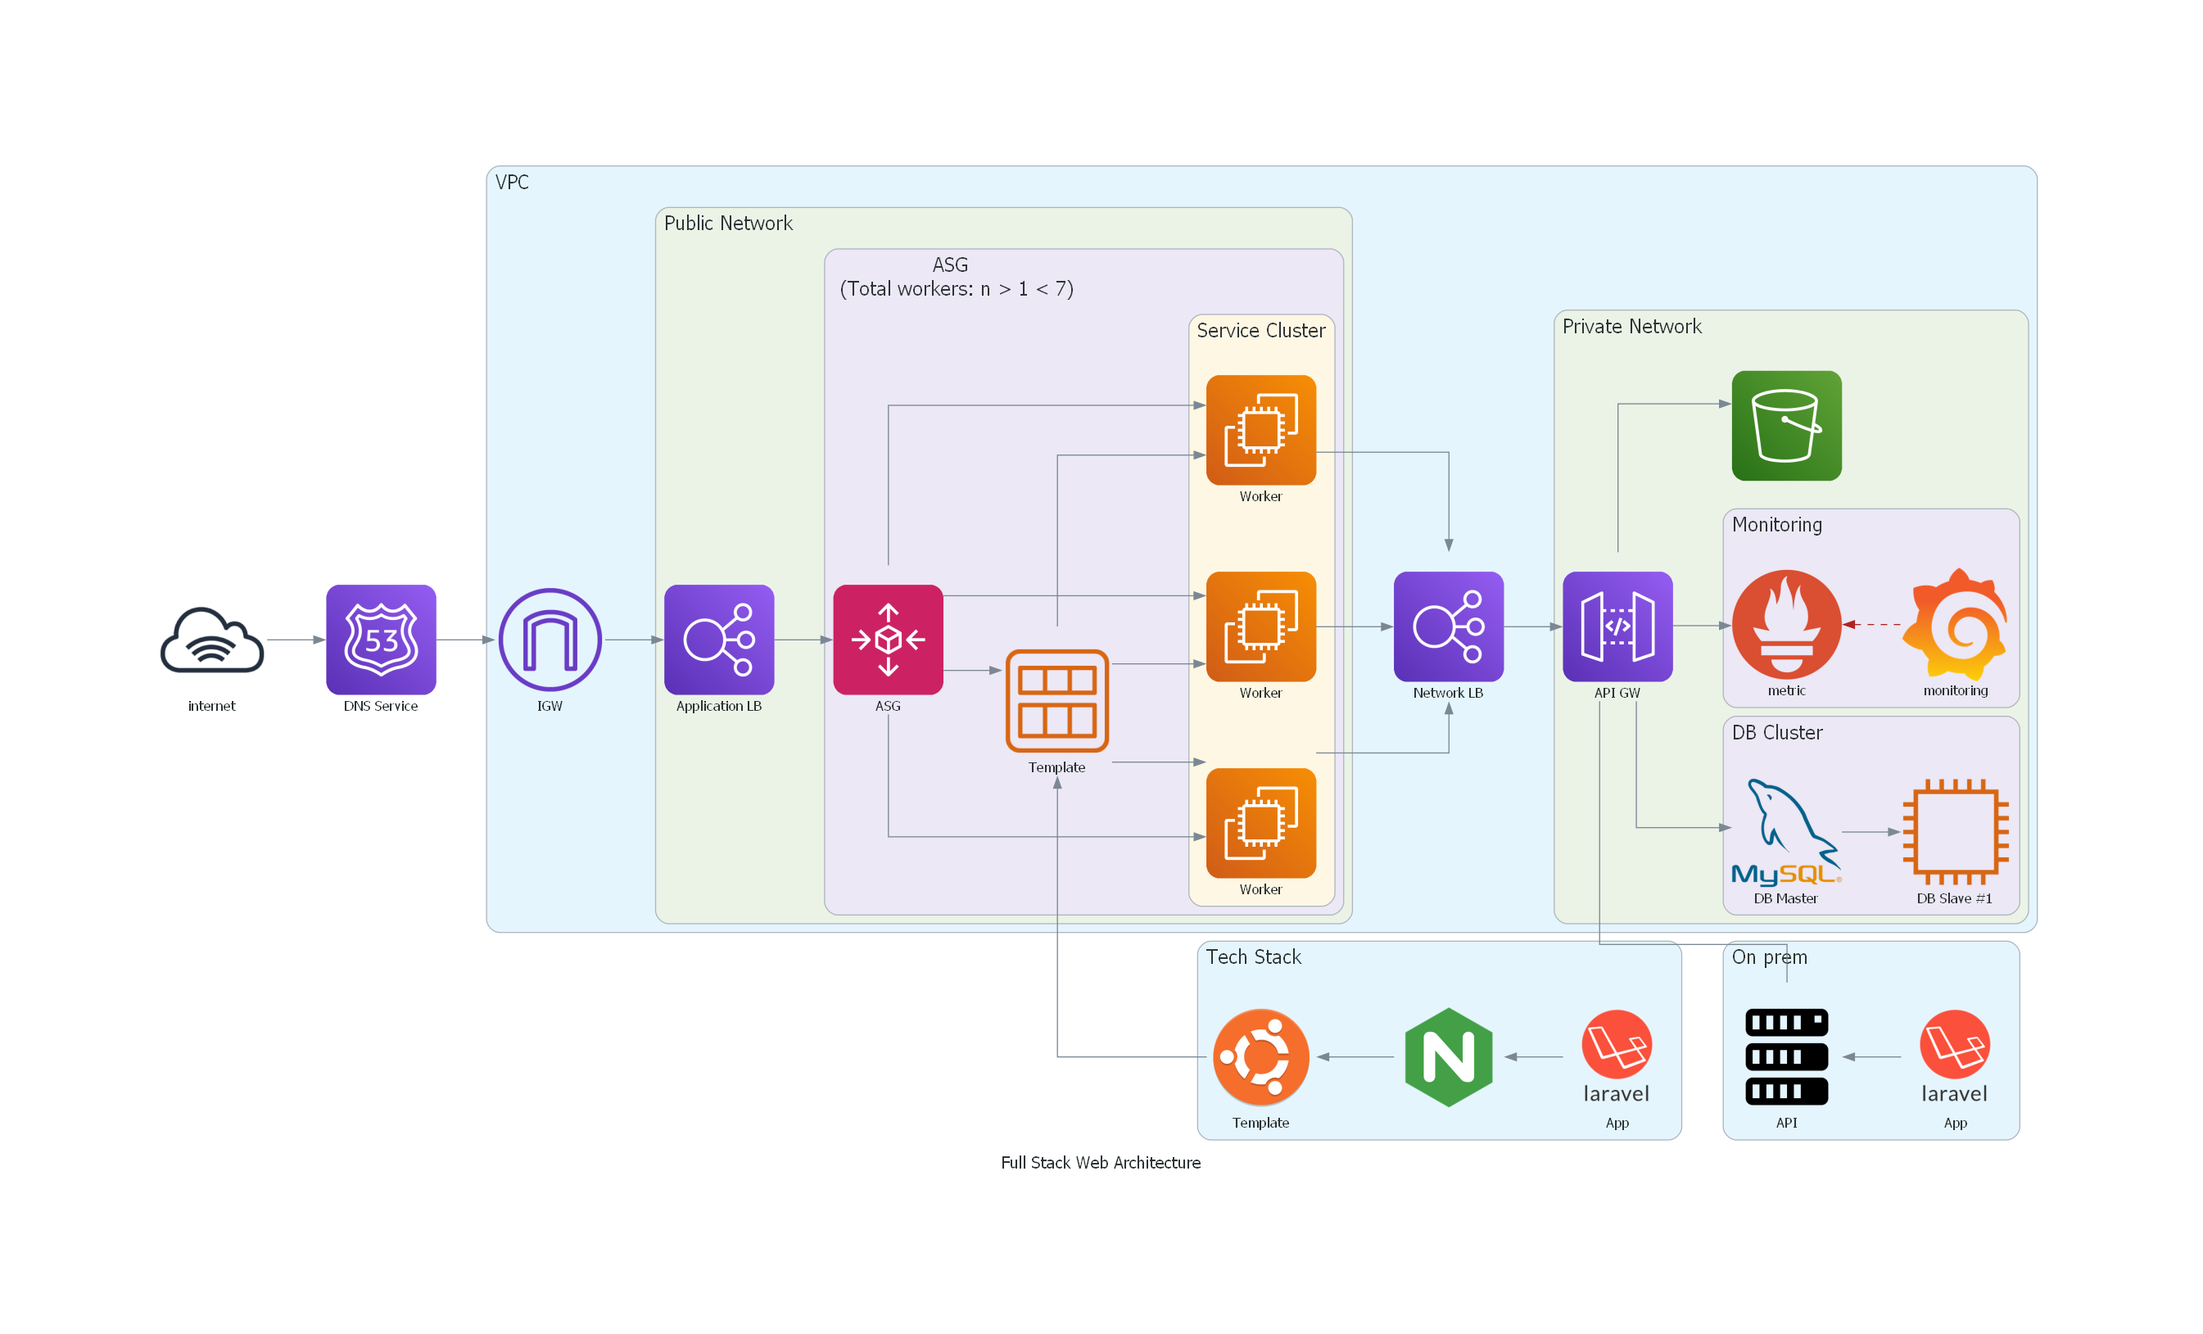
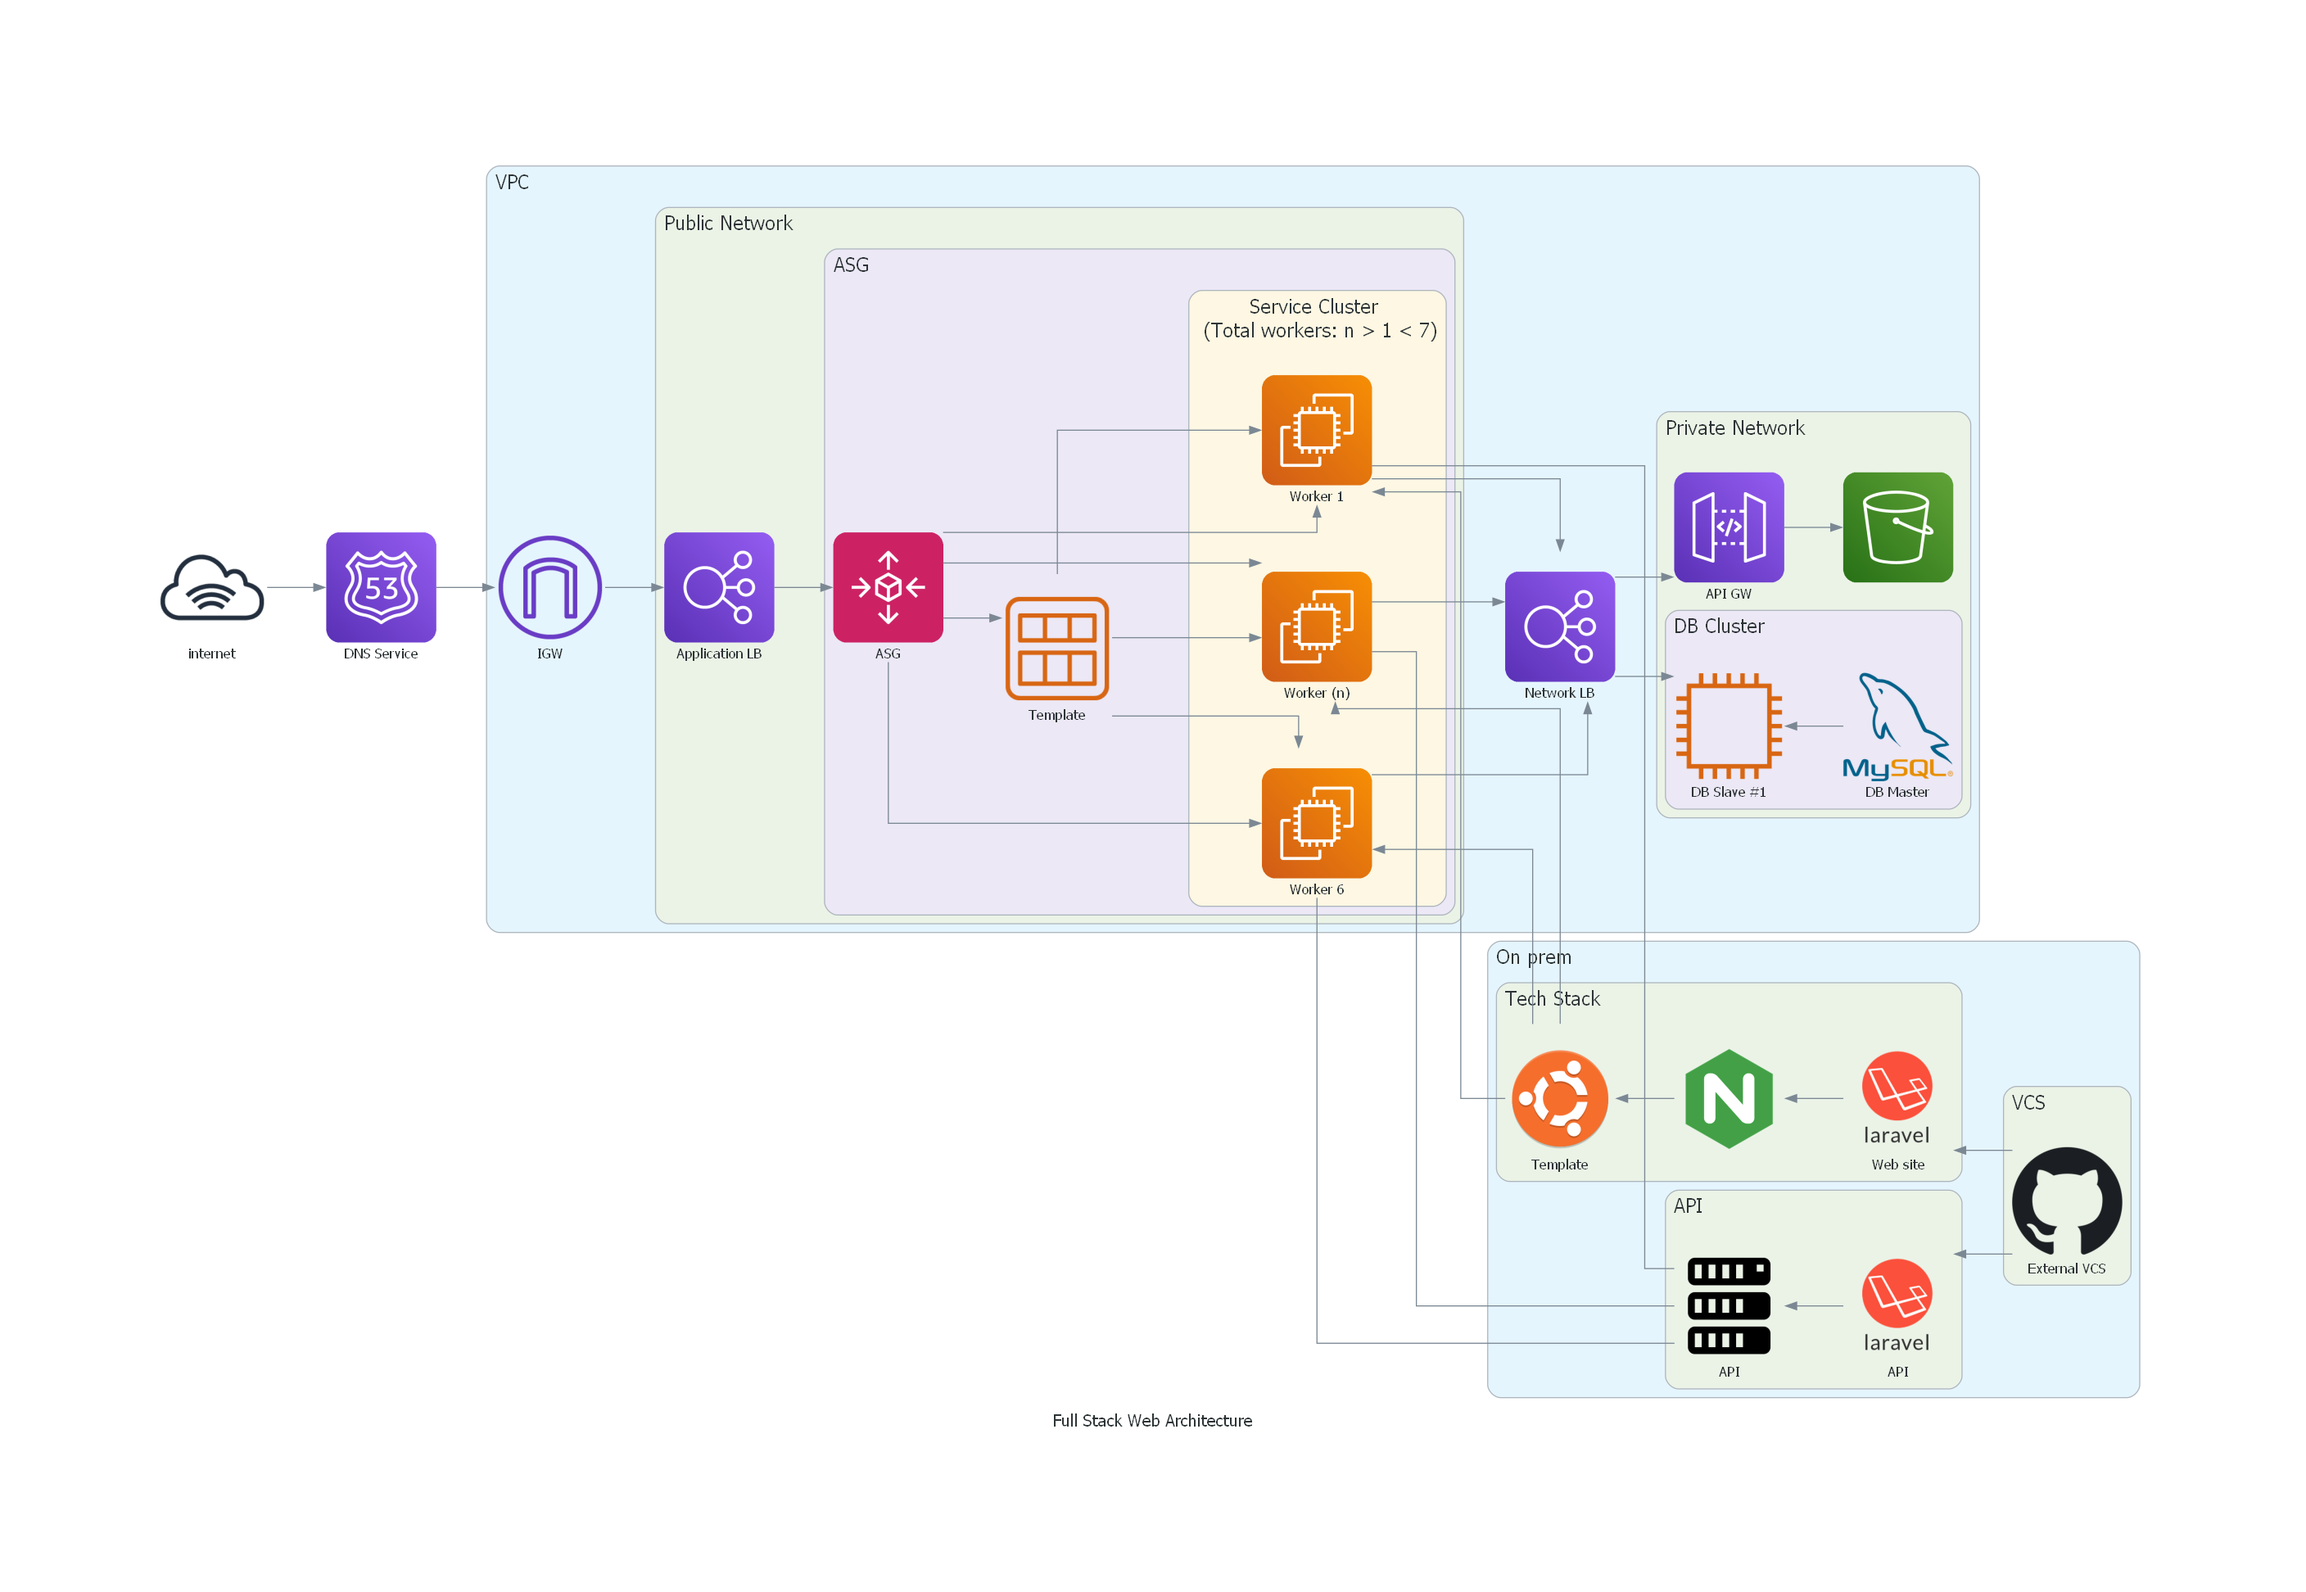
Checklist update. Diagram update

Changed region(s): [[0.0625, 0.0921, 0.9368, 0.8901], [0.4684, 0.8594, 0.5309, 0.9208], [0.4059, 0.1842, 0.4372, 0.2149]]

diff --git a/DAC/Architecture Diagram.py b/DAC/Architecture Diagram.py
@@ -9,7 +9,7 @@ from diagrams.onprem.monitoring import Grafana, Prometheus
 from diagrams.onprem.network import Apache, Nginx
 from diagrams.onprem.database import MySQL
 from diagrams.onprem.compute import Server
-from diagrams.onprem.vcs import Github
+from diagrams.onprem.vcs import Gitlab, Github
 
 from diagrams.programming.framework import Laravel
 
@@ -31,13 +31,13 @@ with Diagram("Full Stack Web Architecture", show=False):
         igw = InternetGateway('IGW')
         with Cluster("Public Network"):
             aLB = ELB('Application LB')
-            with Cluster("ASG \n (Total workers: n > 1 < 7)"):
+            with Cluster("ASG"):
                 AMI = AMI('Template')
-                with Cluster("Service Cluster"):
+                with Cluster("Service Cluster \n (Total workers: n > 1 < 7)"):
                     ec2 = [
-                        EC2('Worker'),
-                        EC2('Worker'),
-                        EC2('Worker'),
+                        EC2('Worker 6'),
+                        EC2('Worker (n)'),
+                        EC2('Worker 1'),
                         
                     ]
                 ASG = AutoScaling('ASG')
@@ -47,27 +47,36 @@ with Diagram("Full Stack Web Architecture", show=False):
             apiGW = APIGateway('API GW')
             with Cluster("DB Cluster"):
                 CDB = [
-                    EC2Instance('DB Slave #1'),
+                    MySQL('DB Master')
+                    
                     # EC2Instance('DB Slave #1'),
                 ]
-                mDB = MySQL('DB Master')
-                mDB >> CDB
-            with Cluster("Monitoring"):
-                metrics = Prometheus("metric")
-                metrics << Edge(color="firebrick", style="dashed") << Grafana("monitoring")
+                mDB = EC2Instance('DB Slave #1')
+                mDB << CDB
+            # with Cluster("Monitoring"):
+            #     metrics = Prometheus("metric")
+            #     metrics << Edge(color="firebrick", style="dashed") << Grafana("monitoring")
             
         # ubu  << Apache('') << Nginx('') << Laravel('App') << git
     
     
-    with Cluster('Tech Stack'):
-        ubu = Ubuntu('Template')
-        # git = Github('Repo')
-        ubu  << Nginx('') << Laravel('App') \
-            #  << git
-        
     with Cluster('On prem'):
-        OnPremServ = Server('API')
-        lrvl = Laravel('App')
+        with Cluster('API'):
+            OnPremServ = Server('API')
+            lrvl = Laravel('API')
+        with Cluster('Tech Stack'):
+            ubu = Ubuntu('Template')
+            # git = Github('Repo')
+            site = Laravel('Web site') 
+            ubu  << Nginx('') << site
+                
+        with Cluster('VCS'):
+            Repo = [
+                # Gitlab('Internal VCS'),
+                Github('External VCS'),
+            ]
+
+        
         
 
                
@@ -77,19 +86,46 @@ with Diagram("Full Stack Web Architecture", show=False):
     aLB >> ASG  >> AMI
     ASG >> ec2
     AMI >> ec2
-    AMI << ubu
+    ec2 << ubu
     ec2 >> nLB
     # nLB >> mDB
     nLB >> apiGW
+    nLB >> mDB
     apiGW >> s3
-    apiGW >> mDB
-    apiGW >> metrics
-    apiGW - OnPremServ << lrvl
+    # apiGW >> mDB
+    # apiGW >> metrics
+    ec2 - OnPremServ << lrvl 
+    lrvl << Repo
+    site << Repo
     
 
 with Diagram("WebApp Architecture", show=False):
 
     lrvl = Laravel('App')
+    with Cluster('DevCycle'):
+        site = [
+            Server('Prod'),
+            Server('Test'),
+            Server('Dev'),
+        ]
+    with Cluster('MVC Architecture'):
+        arch = Server('')
+    with Cluster('Workflow'):
+        with Cluster('Auth'):
+            reg = Server('Register')
+            login = Server('Login') 
+            workflow = login - reg
+        with Cluster('User'):
+            acc = Server('Account') 
+            rsm = Server('rsm') 
+            hist = Server('history') 
+    with Cluster('Controller'):
+        with Cluster('Database'):
+            db = MySQL('DB')
+        with Cluster('Storage'):
+            storage = MySQL('DB')
+
+
     # lb = ELB('LB')
     # source = EKS("k8s source")
 
@@ -98,4 +134,10 @@ with Diagram("WebApp Architecture", show=False):
     #         workers = worker(1)
 
 
-    lrvl 
+    lrvl >> site >> arch
+    arch >> login
+    arch << db
+    arch << storage
+    login >> rsm
+    rsm - acc
+    rsm - hist

diff --git a/Checklist.md b/Checklist.md
@@ -1,55 +1,63 @@
 ## Bugs/Fixes
 ## MVP
 #### Initial Repos
-
-- [x] Webb App Repo
-- [x] Full Stack Repo
-- [ ] Automation Repo
-#### Initial Architecture
+<i class='fas fa-check-circle' style='color: green'></i> Webb App Repo
+<i class='fas fa-check-circle' style='color: green'></i> Full Stack Repo
+<i class='fas fa-pencil-alt' style='color: gray'></i> Automation Repo
 ## Components
 #### Web App
-- [ ] Add admin section
-- [ ] Add user section
-- [ ] Determine type of web app
-- [ ] Create API
+<i class='fas fa-pencil-alt' style='color: gray'></i> Add admin section
+<i class='fas fa-pencil-alt' style='color: gray'></i> Add user section
+<i class='fas fa-pencil-alt' style='color: gray'></i> Determine type of web app
+<i class='fas fa-pencil-alt' style='color: gray'></i> Create API
 #### Mobile (?)
 #### Database
-- [ ] Deploy RDBMS instance
+<i class='fas fa-pencil-alt' style='color: gray'></i> Deploy RDBMS instance
 #### Automation
 #### AutoScale
 #### Vault
-- [ ] Upload .env files
-- [ ] Configure secrets and vault
+<i class='fas fa-pencil-alt' style='color: gray'></i> Upload .env files
+<i class='fas fa-pencil-alt' style='color: gray'></i> Configure secrets and vault
 #### CloudWatch
 #### CloudTrail
-#### K8
+#### Budgeting Alarm
+#### Security
+<i class='fas fa-pencil-alt' style='color: gray'></i> 2FA
+<i class='fas fa-pencil-alt' style='color: gray'></i> Training awareness
+<i class='fas fa-pencil-alt' style='color: gray'></i> Plan: threat analysis
+<i class='fas fa-pencil-alt' style='color: gray'></i> Auditing
+<i class='fas fa-pencil-alt' style='color: gray'></i> Security dev lifecycle
+<i class='fas fa-pencil-alt' style='color: gray'></i> Zero trust
+<i class='fas fa-pencil-alt' style='color: gray'></i> Export Logs to a centralized location
+<i class='fas fa-pencil-alt' style='color: gray'></i> Roles??
 ## Documentation
 #### Repos Docs
-- [ ] Include documentation for submodules
-- [x] Include diagram architecture file
-- [ ] Include steps for diagrams in windows
+<i class='fas fa-pencil-alt' style='color: gray'></i> Include documentation for submodules
+<i class='fas fa-check-circle' style='color: green'></i> Include diagram architecture file
+<i class='fas fa-check-circle' style='color: green'></i> Include steps for diagrams in windows
+<i class='fas fa-spinner' style='color: blue'></i> Udate Global architecture README
 ## Report
 #### Deliverable: Main goals
-- [ ] Linux-based web server with the Autoscale service
-- [ ] maximum requirement of 6 servers and a minimum requirement of 2 servers
-- [ ] include a load balancer
-- [ ] must show static content and fetch dynamic data from a database
-- [ ] Select an appropriate database technology and explain why you chose the database technology
-- [ ] database does not need to have a replica (optional).
-- [ ] Show that the data you are loading/writing comes from the database.
+<i class='fas fa-pencil-alt' style='color: gray'></i> Linux-based web server with the Autoscale service
+<i class='fas fa-pencil-alt' style='color: gray'></i> Maximum requirement of 6 servers and a minimum requirement of 2 servers
+<i class='fas fa-pencil-alt' style='color: gray'></i> Include a load balancer
+<i class='fas fa-pencil-alt' style='color: gray'></i> Must show static content and fetch dynamic data from a database
+<i class='fas fa-pencil-alt' style='color: gray'></i> Select an appropriate database technology and explain why you chose the database technology
+<i class='fas fa-pencil-alt' style='color: gray'></i> Database does not need to have a replica (optional).
+<i class='fas fa-pencil-alt' style='color: gray'></i> Show that the data you are loading/writing comes from the database.
 #### Deliverable 1: Document
-- [ ] Architecture description
-- [ ] Architecture Diagram
-- [ ] Explain why chosen components of the architecture
-- [ ] Cover security
-- [ ] Repos Architecture Diagram
+<i class='fas fa-spinner' style='color: blue'></i> Architecture description
+<i class='fas fa-spinner' style='color: blue'></i> Architecture Diagram
+<i class='fas fa-pencil-alt' style='color: gray'></i> Explain why chosen components of the architecture
+<i class='fas fa-pencil-alt' style='color: gray'></i> Cover security
+<i class='fas fa-pencil-alt' style='color: gray'></i> Repos Architecture Diagram
 #### Deliverable 2: Video
-- [ ] Video of successful implementation
-- [ ] show face and voice
+<i class='fas fa-pencil-alt' style='color: gray'></i> Video of successful implementation
+<i class='fas fa-pencil-alt' style='color: gray'></i> show face and voice
 #### Deliverable 3: PPT
-- [ ] 10-15 mins
-- [ ] add infrastructure
-- [ ] add why web app chosen
-- [ ] add dependencies (if api, for instance python)
+<i class='fas fa-pencil-alt' style='color: gray'></i> 10-15 mins
+<i class='fas fa-pencil-alt' style='color: gray'></i> add infrastructure
+<i class='fas fa-pencil-alt' style='color: gray'></i> add why web app chosen
+<i class='fas fa-pencil-alt' style='color: gray'></i> add dependencies (if api, for instance python)
 #### Deliverable 4: Table
-- [ ] Allocate AWS services used in a table (provided)
+<i class='fas fa-pencil-alt' style='color: gray'></i> Allocate AWS services used in a table (provided)
